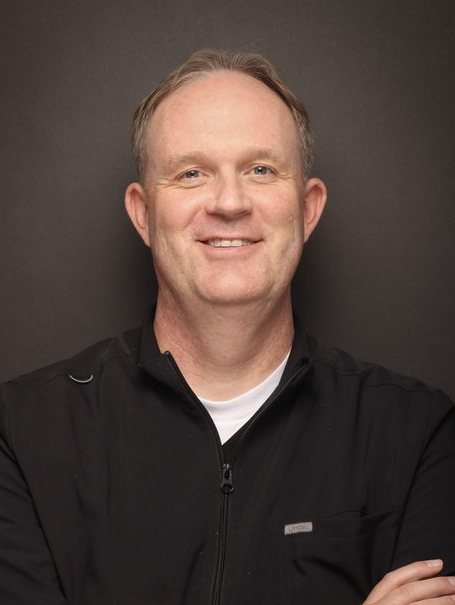
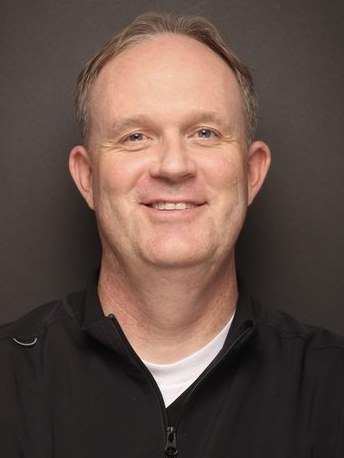
Align the doctor headshots; stop the "Sees patients at:" label wrapping
Headshots: re-cropped all six from the untouched originals in images/doctors/_orig
with OpenCV face detection, normalised so every face is 60% of the crop width with
the eye line at 30% of the crop height. Previously each had been cropped
independently, so head size and eye height drifted between cards -- Dr. Coles sat
small and high, Dr. Tipton showed noticeably more torso. Framing parameters are the
widest that fit all six without running off an edge; Dr. Coles' near-square original
(700x712) is what caps it.

"Sees patients at:" was a class-name collision. The doctor card used class="locs",
which is also the three-office grid (display:grid, three columns), so the label and
the office name were laid out as separate grid cells and "at:" dropped onto its own
row. Renamed the card's block to .seen-at in the markup and in site.css. The office
grid keeps .locs.

diff --git a/meet-the-doctors.html b/meet-the-doctors.html
@@ -189,12 +189,12 @@ body.mm-lock{overflow:hidden}
 <section><div class="wrap">
   <div class="center"><span class="eyebrow">The doctors</span><h2 class="sec">Six orthodontists, one standard</h2><p class="lead">Members of the American Association of Orthodontists. Trained at UCLA, Baylor, Washington University, Saint Louis University, LSU, Nova Southeastern, and more. Good with nervous kids.</p></div>
   <div class="docs">
-    <a class="doc" href="/dr-dustin-coles"><div class="ph"><img src="/images/doctors/dr-coles.jpg" alt="Dr. Dustin Coles, orthodontist" loading="lazy" width="534" height="712"></div><div class="b"><h3>Dr. Dustin Coles</h3><div class="cred">DDS, MSD · Orthodontist</div><p>20,000+ smiles in 20+ years. Award-winning Invisalign provider, author, educator, and the reason Smile 4 Less exists.</p><div class="locs"><b>Sees patients at:</b> West El Paso</div></div></a>
-    <a class="doc" href="/dr-alan-curtis"><div class="ph"><img src="/images/doctors/dr-curtis.jpg" alt="Dr. Alan Curtis, orthodontist" loading="lazy" width="312" height="414"></div><div class="b"><h3>Dr. Alan Curtis</h3><div class="cred">DDS, MS · Orthodontist</div><p>UCLA dental grad, Baylor-trained, adjunct faculty at A.T. Still University, and fluent in Spanish.</p><div class="locs"><b>Sees patients at:</b> East El Paso</div></div></a>
-    <a class="doc" href="/dr-tom-tipton"><div class="ph"><img src="/images/doctors/dr-tipton.jpg" alt="Dr. Tom Tipton, orthodontist" loading="lazy" width="349" height="464"></div><div class="b"><h3>Dr. Tom Tipton</h3><div class="cred">Orthodontist</div><p>Washington University and University of Pittsburgh trained. Raised in a military family, and a longtime humanitarian volunteer.</p><div class="locs"><b>Sees patients at:</b> East &amp; West El Paso</div></div></a>
-    <a class="doc" href="/dr-daniel-cloward"><div class="ph"><img src="/images/doctors/dr-cloward.jpg" alt="Dr. Daniel Cloward, orthodontist" loading="lazy" width="455" height="605"></div><div class="b"><h3>Dr. Daniel Cloward</h3><div class="cred">DMD, MSD, MPH · Orthodontist</div><p>Three advanced degrees and a public-health mindset. Bilingual in English and Spanish.</p><div class="locs"><b>Sees patients at:</b> Horizon City</div></div></a>
-    <a class="doc" href="/dr-paul-robinson"><div class="ph"><img src="/images/doctors/dr-robinson.jpg" alt="Dr. Paul Robinson, orthodontist" loading="lazy" width="528" height="702"></div><div class="b"><h3>Dr. Paul Robinson</h3><div class="cred">DMD · Orthodontist</div><p>Craniofacial fellowship in Chicago, University of Nebraska residency, and patients aged five to 70.</p><div class="locs"><b>Sees patients at:</b> Horizon City</div></div></a>
-    <a class="doc" href="/dr-joseph-morneau"><div class="ph"><img src="/images/doctors/dr-morneau.jpg" alt="Dr. Joseph Morneau, orthodontist" loading="lazy" width="441" height="588"></div><div class="b"><h3>Dr. Joseph Morneau</h3><div class="cred">DMD · Orthodontist</div><p>U.S. Navy veteran, author of <em>Orthodontics 101</em>, and former chief of orthodontics for a pediatric residency.</p><div class="locs"><b>Sees patients at:</b> Horizon City</div></div></a>
+    <a class="doc" href="/dr-dustin-coles"><div class="ph"><img src="/images/doctors/dr-coles.jpg" alt="Dr. Dustin Coles, orthodontist" loading="lazy" width="496" height="663"></div><div class="b"><h3>Dr. Dustin Coles</h3><div class="cred">DDS, MSD · Orthodontist</div><p>20,000+ smiles in 20+ years. Award-winning Invisalign provider, author, educator, and the reason Smile 4 Less exists.</p><div class="seen-at"><b>Sees patients at:</b> West El Paso</div></div></a>
+    <a class="doc" href="/dr-alan-curtis"><div class="ph"><img src="/images/doctors/dr-curtis.jpg" alt="Dr. Alan Curtis, orthodontist" loading="lazy" width="235" height="314"></div><div class="b"><h3>Dr. Alan Curtis</h3><div class="cred">DDS, MS · Orthodontist</div><p>UCLA dental grad, Baylor-trained, adjunct faculty at A.T. Still University, and fluent in Spanish.</p><div class="seen-at"><b>Sees patients at:</b> East El Paso</div></div></a>
+    <a class="doc" href="/dr-tom-tipton"><div class="ph"><img src="/images/doctors/dr-tipton.jpg" alt="Dr. Tom Tipton, orthodontist" loading="lazy" width="264" height="351"></div><div class="b"><h3>Dr. Tom Tipton</h3><div class="cred">Orthodontist</div><p>Washington University and University of Pittsburgh trained. Raised in a military family, and a longtime humanitarian volunteer.</p><div class="seen-at"><b>Sees patients at:</b> East &amp; West El Paso</div></div></a>
+    <a class="doc" href="/dr-daniel-cloward"><div class="ph"><img src="/images/doctors/dr-cloward.jpg" alt="Dr. Daniel Cloward, orthodontist" loading="lazy" width="344" height="458"></div><div class="b"><h3>Dr. Daniel Cloward</h3><div class="cred">DMD, MSD, MPH · Orthodontist</div><p>Three advanced degrees and a public-health mindset. Bilingual in English and Spanish.</p><div class="seen-at"><b>Sees patients at:</b> Horizon City</div></div></a>
+    <a class="doc" href="/dr-paul-robinson"><div class="ph"><img src="/images/doctors/dr-robinson.jpg" alt="Dr. Paul Robinson, orthodontist" loading="lazy" width="399" height="531"></div><div class="b"><h3>Dr. Paul Robinson</h3><div class="cred">DMD · Orthodontist</div><p>Craniofacial fellowship in Chicago, University of Nebraska residency, and patients aged five to 70.</p><div class="seen-at"><b>Sees patients at:</b> Horizon City</div></div></a>
+    <a class="doc" href="/dr-joseph-morneau"><div class="ph"><img src="/images/doctors/dr-morneau.jpg" alt="Dr. Joseph Morneau, orthodontist" loading="lazy" width="334" height="444"></div><div class="b"><h3>Dr. Joseph Morneau</h3><div class="cred">DMD · Orthodontist</div><p>U.S. Navy veteran, author of <em>Orthodontics 101</em>, and former chief of orthodontics for a pediatric residency.</p><div class="seen-at"><b>Sees patients at:</b> Horizon City</div></div></a>
   </div>
   <p class="todo" style="margin-top:22px">TODO (office): we removed the "board-certified" wording and the American Board of Orthodontics seal, because none of the bios you sent claim a current ABO diplomate status. If Dr. Curtis (or anyone) is currently board certified, send confirmation and we'll put both back.</p>
   <p class="todo" style="margin-top:10px">TODO (office): Dr. Morneau was not included in the bios doc Charlotte sent. Confirm he is still with the practice; if not, we'll remove his page and card.</p>

diff --git a/horizon-city.html b/horizon-city.html
@@ -203,9 +203,9 @@ body.mm-lock{overflow:hidden}
 <section class="tight"><div class="wrap">
   <div class="center"><span class="eyebrow">Your orthodontists</span><h2 class="sec">Who you'll see at Horizon City</h2></div>
   <div class="docs">
-    <div class="doc"><div class="ph"><img src="/images/doctors/dr-cloward.jpg" alt="Dr. Daniel Cloward, orthodontist" loading="lazy" width="455" height="605"></div><div class="b"><h3>Dr. Daniel Cloward</h3><div class="cred">DMD, MSD, MPH · Orthodontist</div><p>Three advanced degrees and a public-health mindset. Bilingual in English and Spanish.</p></div></div>
-    <div class="doc"><div class="ph"><img src="/images/doctors/dr-robinson.jpg" alt="Dr. Paul Robinson, orthodontist" loading="lazy" width="528" height="702"></div><div class="b"><h3>Dr. Paul Robinson</h3><div class="cred">DMD · Orthodontist</div><p>Craniofacial fellowship in Chicago and a University of Nebraska residency.</p></div></div>
-    <div class="doc"><div class="ph"><img src="/images/doctors/dr-morneau.jpg" alt="Dr. Joseph Morneau, orthodontist" loading="lazy" width="441" height="588"></div><div class="b"><h3>Dr. Joseph Morneau</h3><div class="cred">DMD · Orthodontist</div><p>U.S. Navy veteran and author of <em>Orthodontics 101</em>.</p></div></div>
+    <div class="doc"><div class="ph"><img src="/images/doctors/dr-cloward.jpg" alt="Dr. Daniel Cloward, orthodontist" loading="lazy" width="344" height="458"></div><div class="b"><h3>Dr. Daniel Cloward</h3><div class="cred">DMD, MSD, MPH · Orthodontist</div><p>Three advanced degrees and a public-health mindset. Bilingual in English and Spanish.</p></div></div>
+    <div class="doc"><div class="ph"><img src="/images/doctors/dr-robinson.jpg" alt="Dr. Paul Robinson, orthodontist" loading="lazy" width="399" height="531"></div><div class="b"><h3>Dr. Paul Robinson</h3><div class="cred">DMD · Orthodontist</div><p>Craniofacial fellowship in Chicago and a University of Nebraska residency.</p></div></div>
+    <div class="doc"><div class="ph"><img src="/images/doctors/dr-morneau.jpg" alt="Dr. Joseph Morneau, orthodontist" loading="lazy" width="334" height="444"></div><div class="b"><h3>Dr. Joseph Morneau</h3><div class="cred">DMD · Orthodontist</div><p>U.S. Navy veteran and author of <em>Orthodontics 101</em>.</p></div></div>
   </div>
 </div></section>
 

diff --git a/west-el-paso.html b/west-el-paso.html
@@ -203,8 +203,8 @@ body.mm-lock{overflow:hidden}
 <section class="tight"><div class="wrap">
   <div class="center"><span class="eyebrow">Your orthodontists</span><h2 class="sec">Who you'll see at West El Paso</h2></div>
   <div class="docs">
-    <div class="doc"><div class="ph"><img src="/images/doctors/dr-coles.jpg" alt="Dr. Dustin Coles, orthodontist" loading="lazy" width="534" height="712"></div><div class="b"><h3>Dr. Dustin Coles</h3><div class="cred">DDS, MSD · Orthodontist</div><p>20,000+ smiles in 20+ years. Award-winning Invisalign provider and the reason Smile 4 Less exists.</p></div></div>
-    <div class="doc"><div class="ph"><img src="/images/doctors/dr-tipton.jpg" alt="Dr. Tom Tipton, orthodontist" loading="lazy" width="349" height="464"></div><div class="b"><h3>Dr. Tom Tipton</h3><div class="cred">Orthodontist</div><p>Washington University and University of Pittsburgh trained. Raised in a military family.</p></div></div>
+    <div class="doc"><div class="ph"><img src="/images/doctors/dr-coles.jpg" alt="Dr. Dustin Coles, orthodontist" loading="lazy" width="496" height="663"></div><div class="b"><h3>Dr. Dustin Coles</h3><div class="cred">DDS, MSD · Orthodontist</div><p>20,000+ smiles in 20+ years. Award-winning Invisalign provider and the reason Smile 4 Less exists.</p></div></div>
+    <div class="doc"><div class="ph"><img src="/images/doctors/dr-tipton.jpg" alt="Dr. Tom Tipton, orthodontist" loading="lazy" width="264" height="351"></div><div class="b"><h3>Dr. Tom Tipton</h3><div class="cred">Orthodontist</div><p>Washington University and University of Pittsburgh trained. Raised in a military family.</p></div></div>
   </div>
 </div></section>
 

diff --git a/east-el-paso.html b/east-el-paso.html
@@ -203,8 +203,8 @@ body.mm-lock{overflow:hidden}
 <section class="tight"><div class="wrap">
   <div class="center"><span class="eyebrow">Your orthodontists</span><h2 class="sec">Who you'll see at East El Paso</h2></div>
   <div class="docs">
-    <div class="doc"><div class="ph"><img src="/images/doctors/dr-curtis.jpg" alt="Dr. Alan Curtis, orthodontist" loading="lazy" width="312" height="414"></div><div class="b"><h3>Dr. Alan Curtis</h3><div class="cred">DDS, MS · Orthodontist</div><p>UCLA dental grad, Baylor-trained, adjunct faculty, and fluent in Spanish.</p></div></div>
-    <div class="doc"><div class="ph"><img src="/images/doctors/dr-tipton.jpg" alt="Dr. Tom Tipton, orthodontist" loading="lazy" width="349" height="464"></div><div class="b"><h3>Dr. Tom Tipton</h3><div class="cred">Orthodontist</div><p>Washington University and University of Pittsburgh trained. Raised in a military family.</p></div></div>
+    <div class="doc"><div class="ph"><img src="/images/doctors/dr-curtis.jpg" alt="Dr. Alan Curtis, orthodontist" loading="lazy" width="235" height="314"></div><div class="b"><h3>Dr. Alan Curtis</h3><div class="cred">DDS, MS · Orthodontist</div><p>UCLA dental grad, Baylor-trained, adjunct faculty, and fluent in Spanish.</p></div></div>
+    <div class="doc"><div class="ph"><img src="/images/doctors/dr-tipton.jpg" alt="Dr. Tom Tipton, orthodontist" loading="lazy" width="264" height="351"></div><div class="b"><h3>Dr. Tom Tipton</h3><div class="cred">Orthodontist</div><p>Washington University and University of Pittsburgh trained. Raised in a military family.</p></div></div>
   </div>
 </div></section>
 

diff --git a/dr-alan-curtis.html b/dr-alan-curtis.html
@@ -184,7 +184,7 @@ body.mm-lock{overflow:hidden}
 </div></section>
 
 <section class="docpage"><div class="wrap grid">
-  <div class="photo"><img src="/images/doctors/dr-curtis.jpg" alt="Dr. Alan Curtis" width="312" height="414"><span class="todo" style="margin:8px">TODO: higher-res headshot from the practice</span></div>
+  <div class="photo"><img src="/images/doctors/dr-curtis.jpg" alt="Dr. Alan Curtis" width="235" height="314"><span class="todo" style="margin:8px">TODO: higher-res headshot from the practice</span></div>
   <div class="prose">
     <h2>About Dr. Curtis</h2>
     <p>Dr. Alan Curtis has been creating healthy, confident smiles for families in Arizona and Texas since 2007. He earned his bachelor's degree from Brigham Young University, scored in the top 1% on the dental admissions exam, and completed his DDS at the UCLA School of Dentistry. He then finished a two-year orthodontic residency at Baylor College of Dentistry (Texas A&amp;M), where he received his Certificate in Orthodontics and a Master of Science in Oral Biology.</p>

diff --git a/dr-tom-tipton.html b/dr-tom-tipton.html
@@ -184,7 +184,7 @@ body.mm-lock{overflow:hidden}
 </div></section>
 
 <section class="docpage"><div class="wrap grid">
-  <div class="photo"><img src="/images/doctors/dr-tipton.jpg" alt="Dr. Tom Tipton" width="349" height="464"><span class="todo" style="margin:8px">TODO: higher-res headshot from the practice</span></div>
+  <div class="photo"><img src="/images/doctors/dr-tipton.jpg" alt="Dr. Tom Tipton" width="264" height="351"><span class="todo" style="margin:8px">TODO: higher-res headshot from the practice</span></div>
   <div class="prose">
     <h2>About Dr. Tipton</h2>
     <p>Dr. Tipton earned his dental degree from Washington University in St. Louis and his orthodontic degree from the University of Pittsburgh. He practiced orthodontics in Tempe and Gilbert, Arizona for many years before coming to El Paso.</p>

diff --git a/dr-daniel-cloward.html b/dr-daniel-cloward.html
@@ -191,7 +191,7 @@ body.mm-lock{overflow:hidden}
 </div></div>
 
 <section class="docpage"><div class="wrap grid">
-  <div class="photo"><img src="/images/doctors/dr-cloward.jpg" alt="Dr. Daniel Cloward" width="455" height="605"></div>
+  <div class="photo"><img src="/images/doctors/dr-cloward.jpg" alt="Dr. Daniel Cloward" width="344" height="458"></div>
   <div class="prose">
     <h2>An orthodontist with a public-health mindset</h2>
     <p>Before he became an orthodontist, Dr. Daniel Cloward earned a Master of Public Health, and it shaped how he thinks about care. He was drawn to orthodontics to help people, and he plans every case around one goal: a smile that is healthy, looks great, and lasts a lifetime.</p>

diff --git a/assets/site.css b/assets/site.css
@@ -173,7 +173,7 @@ a.card:hover,.card.hov:hover{transform:translateY(-4px);box-shadow:0 18px 38px r
 .doc h3{font-size:24px;text-transform:uppercase;margin-bottom:2px}
 .doc .cred{color:var(--deep);font-weight:700;font-size:14px;margin-bottom:8px}
 .doc p{color:var(--slate);font-size:14.5px;margin-bottom:12px}
-.doc .locs{font-size:13px;color:var(--slate)}.doc .locs b{color:var(--ink)}
+.doc .seen-at{font-size:13px;color:var(--slate)}.doc .seen-at b{color:var(--ink)}
 @media(max-width:900px){.docs>*{flex-basis:calc((100% - 26px)/2)}}@media(max-width:560px){.docs>*{flex-basis:100%}}
 .team{display:grid;grid-template-columns:repeat(4,1fr);gap:22px;margin-top:44px}
 .tm{text-align:center}

diff --git a/dr-dustin-coles.html b/dr-dustin-coles.html
@@ -191,7 +191,7 @@ body.mm-lock{overflow:hidden}
 </div></div>
 
 <section class="docpage"><div class="wrap grid">
-  <div class="photo"><img src="/images/doctors/dr-coles.jpg" alt="Dr. Dustin Coles" width="534" height="712"></div>
+  <div class="photo"><img src="/images/doctors/dr-coles.jpg" alt="Dr. Dustin Coles" width="496" height="663"></div>
   <div class="prose">
     <h2>The doctor behind your smile</h2>
     <p>Dr. Dustin Coles has spent his entire career proving that premium care and an honest price can go together. Since starting in orthodontics in 2006, he has personally helped transform more than 20,000 smiles, with patients driving hours just to sit in his chair.</p>

diff --git a/dr-paul-robinson.html b/dr-paul-robinson.html
@@ -184,7 +184,7 @@ body.mm-lock{overflow:hidden}
 </div></section>
 
 <section class="docpage"><div class="wrap grid">
-  <div class="photo"><img src="/images/doctors/dr-robinson.jpg" alt="Dr. Paul Robinson" width="528" height="702"></div>
+  <div class="photo"><img src="/images/doctors/dr-robinson.jpg" alt="Dr. Paul Robinson" width="399" height="531"></div>
   <div class="prose">
     <h2>About Dr. Robinson</h2>
     <p>Dr. Robinson has the opportunity to meet and get to know people of all ages and backgrounds, and to provide a service that in some cases can be life changing. His patients range in age from five to 70 and have come to him from all over Texas and the world.</p>

diff --git a/dr-joseph-morneau.html b/dr-joseph-morneau.html
@@ -184,7 +184,7 @@ body.mm-lock{overflow:hidden}
 </div></section>
 
 <section class="docpage"><div class="wrap grid">
-  <div class="photo"><img src="/images/doctors/dr-morneau.jpg" alt="Dr. Joseph Morneau" width="441" height="588"></div>
+  <div class="photo"><img src="/images/doctors/dr-morneau.jpg" alt="Dr. Joseph Morneau" width="334" height="444"></div>
   <div class="prose">
     <h2>About Dr. Morneau</h2>
     <p>Dr. Morneau earned his dental degree from the Louisiana State University School of Dentistry, then completed his orthodontic residency at St. Barnabas Hospital in New York.</p>
